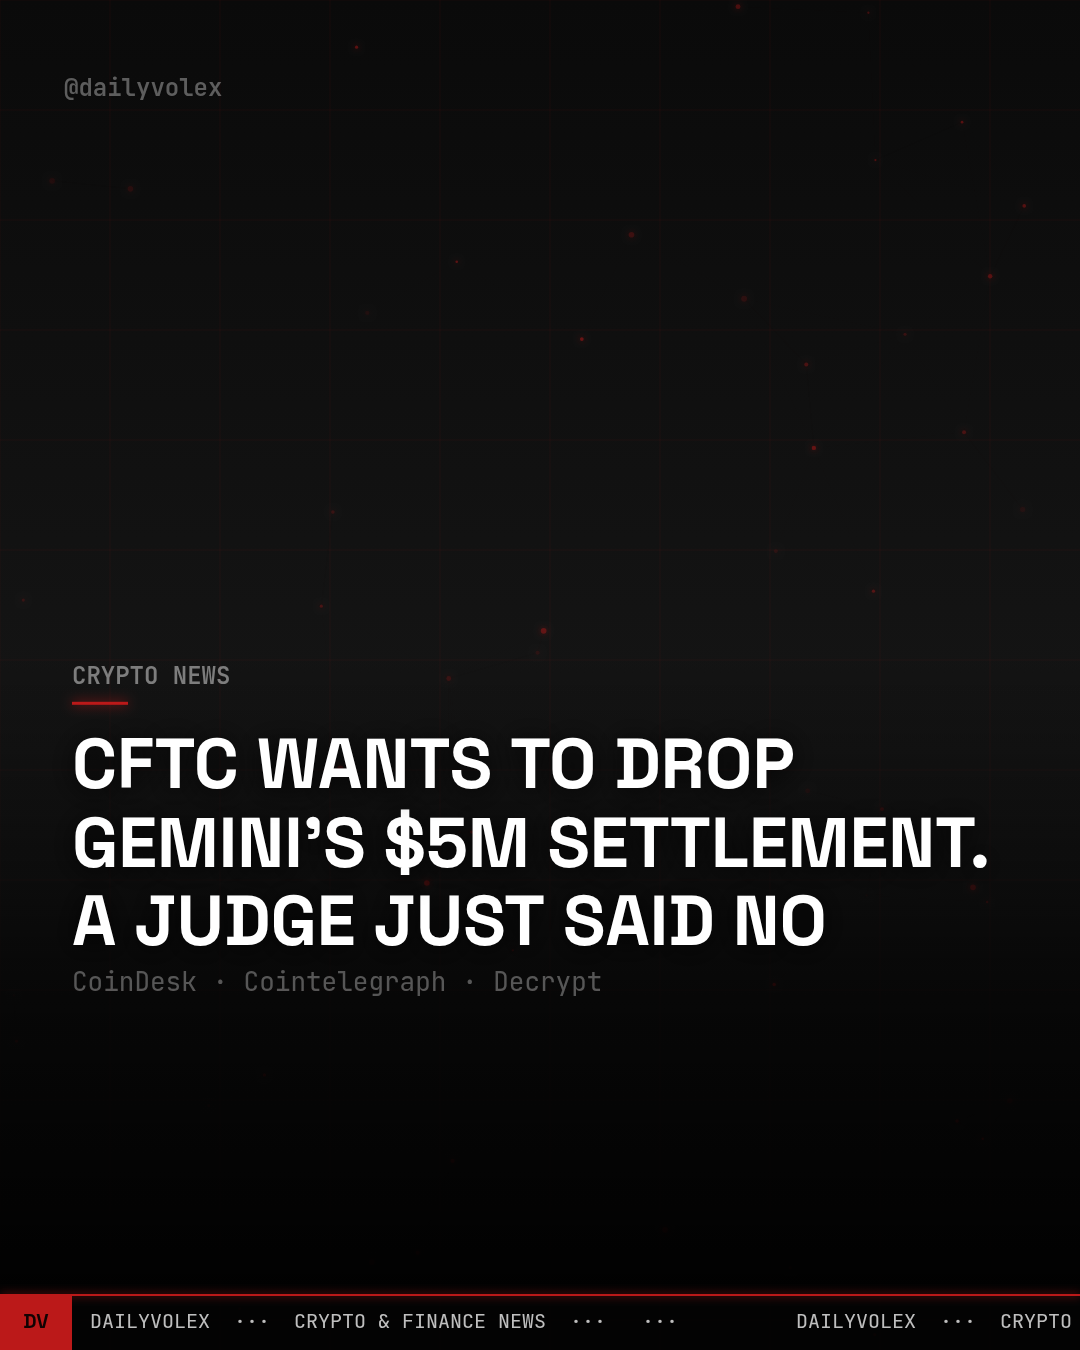
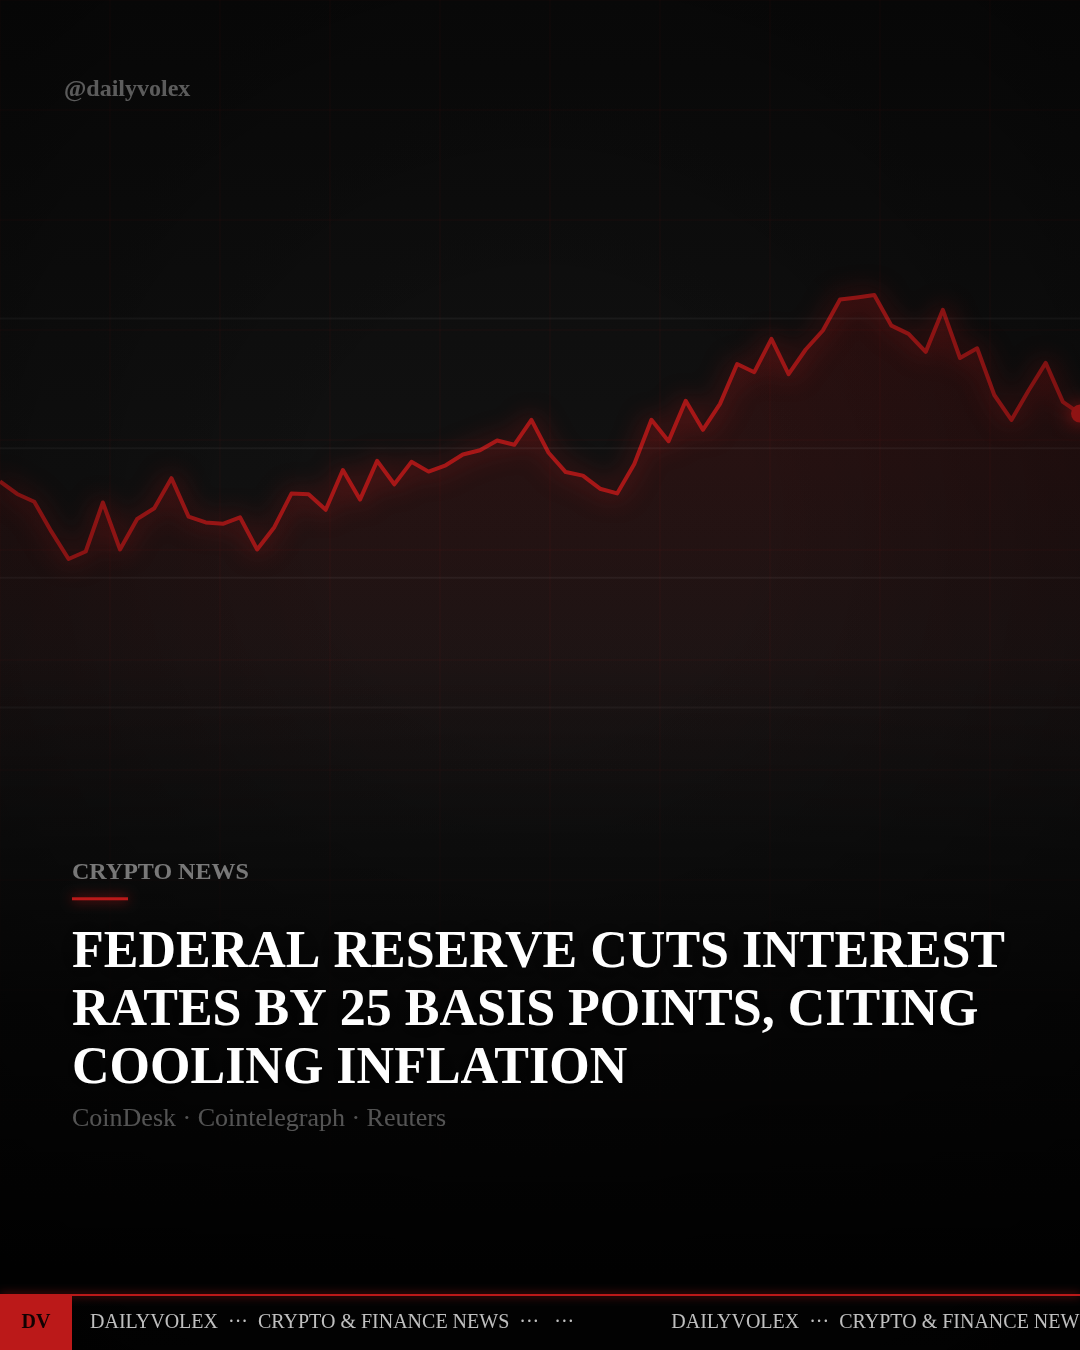
Put a market chart behind the text, so a post is not a black card
A dark card with a headline on it reads as empty rather than as designed, and
that is most of what these posts were. There is now a generated market chart
behind the text: a seeded random walk with an area fill, a glow and a terminal
style marker on the last point, derived from the headline so every story gets
its own chart and the same story always looks the same.

Generated rather than photographed on purpose — no licence to worry about, no
network call that can fail at 08:00, and no risk of a stock image implying
something the story does not say. It is dimmed behind text-heavy layouts and
bold behind a single headline, so it never competes with what it sits under.

Available in the app too, as a Style toggle, and saved with the rest of the
look. Story cards sit back at their normal position now that the frame is
full, rather than being lifted to disguise the emptiness.

Also fixed: the test fixtures carried the dates they were written with, so
once they aged past the 24-hour window every fixture run quietly produced an
empty shortlist — CI included, which would have started failing the day after
the fixtures were made. They are now re-stamped relative to now, keeping their
order and spacing.

Verified: 43 logic, 11 token and 25 workflow tests pass; the carousel renders
with the chart behind both the cover and the story cards.

Claude-Session: https://claude.ai/code/session_01791Hmr7gsyZzjWSHaH6syA

diff --git a/index.html b/index.html
@@ -785,6 +785,12 @@ body.headless main{padding:0!important}
   </div>
 
   <div class="toggle-row">
+    <span class="toggle-label">Market chart backdrop
+      <span class="toggle-sub">A generated chart behind the text, when there is no video</span></span>
+    <label class="sw"><input type="checkbox" id="backdropToggle"><span class="sw-track"></span></label>
+  </div>
+
+  <div class="toggle-row">
     <span class="toggle-label">Safe area
       <span class="toggle-sub">Show what Instagram's UI covers</span></span>
     <label class="sw"><input type="checkbox" id="guidesToggle"><span class="sw-track"></span></label>
@@ -995,6 +1001,7 @@ const S = {
   recordDuration: 8,
   tickerX: 0,
   tickerFreeze: false,   // still exports hold the ticker at its start
+  backdrop: 'particles', // or 'chart' — a generated market chart behind the text
   videoLoaded: false,
   videoLook: 'cinematic',
   letterbox: false,
@@ -1255,6 +1262,112 @@ function applyLookOverlays(theme, look) {
   }
 }
 
+/* ═══════════════════════════════════════════════
+   MARKET BACKDROP
+   A plain dark card with a headline on it reads as empty rather than as
+   designed. This draws a market chart behind the text instead — generated,
+   not photographed, so there is no licence to worry about and no risk of a
+   stock image implying something the story does not say.
+
+   The shape is derived from the headline, so each story gets its own chart and
+   the same story always looks the same.
+   ═══════════════════════════════════════════════ */
+function seedFrom(str) {
+  let h = 2166136261;
+  for (let i = 0; i < String(str).length; i++) {
+    h ^= String(str).charCodeAt(i);
+    h = Math.imul(h, 16777619);
+  }
+  return h >>> 0;
+}
+
+function seededRandom(seed) {
+  let a = seed || 1;
+  return () => {
+    a |= 0; a = (a + 0x6D2B79F5) | 0;
+    let t = Math.imul(a ^ (a >>> 15), 1 | a);
+    t = (t + Math.imul(t ^ (t >>> 7), 61 | t)) ^ t;
+    return ((t ^ (t >>> 14)) >>> 0) / 4294967296;
+  };
+}
+
+function drawMarketBackdrop(theme, seedText) {
+  const W = cv.width, H = cv.height;
+  const rnd = seededRandom(seedFrom(seedText || 'dailyvolex'));
+
+  // Layouts that fill the frame with text need the chart to stay well back;
+  // a single headline can carry a bolder one behind it.
+  const busy = S.layout === 'stories' || S.layout === 'facts';
+  const strength = busy ? 0.45 : 1;
+
+  // A random walk with a mild drift, so it reads as a real price series
+  // rather than as noise.
+  const N = 64;
+  const drift = (rnd() - 0.45) * 0.9;
+  const pts = [];
+  let v = 0.5;
+  for (let i = 0; i < N; i++) {
+    v += (rnd() - 0.5) * 0.16 + drift / N;
+    v = Math.max(0.08, Math.min(0.92, v));
+    pts.push(v);
+  }
+
+  // Occupy the upper part of the frame, above where the headline sits.
+  const top = H * 0.14, bottom = H * 0.62;
+  const x = i => (i / (N - 1)) * W;
+  const y = i => bottom - pts[i] * (bottom - top);
+
+  // Area fill under the line.
+  const fill = ctx.createLinearGradient(0, top, 0, bottom);
+  fill.addColorStop(0, `rgba(${theme.pr},${0.22 * strength})`);
+  fill.addColorStop(1, `rgba(${theme.pr},0)`);
+  ctx.beginPath();
+  ctx.moveTo(0, bottom);
+  for (let i = 0; i < N; i++) ctx.lineTo(x(i), y(i));
+  ctx.lineTo(W, bottom);
+  ctx.closePath();
+  ctx.fillStyle = fill;
+  ctx.fill();
+
+  // The line itself, glowing in the theme colour.
+  ctx.save();
+  ctx.beginPath();
+  ctx.moveTo(x(0), y(0));
+  for (let i = 1; i < N; i++) ctx.lineTo(x(i), y(i));
+  ctx.strokeStyle = theme.p;
+  ctx.lineWidth = 4;
+  ctx.lineJoin = 'round';
+  ctx.shadowColor = theme.p;
+  ctx.shadowBlur = 26;
+  ctx.globalAlpha = 0.85 * strength;
+  ctx.stroke();
+  ctx.restore();
+
+  // A marker on the last point, the way a terminal would show the live price.
+  ctx.save();
+  ctx.fillStyle = theme.p;
+  ctx.shadowColor = theme.p; ctx.shadowBlur = 18;
+  ctx.globalAlpha = strength;
+  ctx.beginPath(); ctx.arc(x(N-1), y(N-1), 9, 0, Math.PI*2); ctx.fill();
+  ctx.restore();
+
+  // Faint horizontal levels, like a chart's gridlines.
+  ctx.save();
+  ctx.strokeStyle = 'rgba(255,255,255,.05)';
+  ctx.lineWidth = 2;
+  for (let i = 1; i < 5; i++) {
+    const gy = top + ((bottom - top) / 5) * i;
+    ctx.beginPath(); ctx.moveTo(0, gy); ctx.lineTo(W, gy); ctx.stroke();
+  }
+  ctx.restore();
+
+  // Vignette, so the chart sits behind the text rather than competing with it.
+  const vig = ctx.createRadialGradient(W/2, H*0.38, H*0.15, W/2, H*0.45, H*0.75);
+  vig.addColorStop(0, 'rgba(0,0,0,0)');
+  vig.addColorStop(1, 'rgba(0,0,0,.55)');
+  ctx.fillStyle = vig; ctx.fillRect(0, 0, W, H);
+}
+
 function drawBG(theme) {
   if (S.videoLoaded) {
     const W=cv.width, H=cv.height;
@@ -1292,6 +1405,14 @@ function drawBG(theme) {
     const gs=110;
     for(let x=0;x<cv.width;x+=gs){ctx.beginPath();ctx.moveTo(x,0);ctx.lineTo(x,cv.height);ctx.stroke();}
     for(let y=0;y<cv.height;y+=gs){ctx.beginPath();ctx.moveTo(0,y);ctx.lineTo(cv.width,y);ctx.stroke();}
+    if (S.backdrop === 'chart') {
+      drawMarketBackdrop(theme,
+        S.layout === 'stories' ? (S.stories.items[0] || S.stories.label)
+        : S.layout === 'facts' ? (S.facts.title)
+        : S.layout === 'quote' ? (S.quote.stat + S.quote.label)
+        : (S.breaking.headline || S.brand.handle));
+      return;
+    }
     updateParticles();
     for (const p of S.particles) {
       ctx.save();
@@ -3304,7 +3425,7 @@ function saveState() {
     brand:{name:S.brand.name,handle:S.brand.handle},
     breaking:S.breaking, stories:S.stories, facts:S.facts, quote:S.quote,
     customColor:S.customColor, recordDuration:S.recordDuration,
-    showClock:S.showClock, sound:S.sound, pos:{x:S.pos.x,y:S.pos.y}, avSyncMs:S.avSyncMs,
+    showClock:S.showClock, backdrop:S.backdrop, sound:S.sound, pos:{x:S.pos.x,y:S.pos.y}, avSyncMs:S.avSyncMs,
     tickerFeeds:S.tickerFeeds,
   };
   try { localStorage.setItem('dvx_v2',JSON.stringify(snap)); showToast('Session saved'); }
@@ -3329,6 +3450,7 @@ function loadState() {
     if(snap.recordDuration) S.recordDuration=snap.recordDuration;
     S.showClock=!!snap.showClock;
     if(typeof snap.sound==='boolean') S.sound=snap.sound;
+    if(snap.backdrop==='chart'||snap.backdrop==='particles') S.backdrop=snap.backdrop;
     S.avSyncMs = (typeof snap.avSyncMs==='number') ? snap.avSyncMs : null;
     if(snap.pos) { S.pos.x=+snap.pos.x||0; S.pos.y=+snap.pos.y||0; }
     if(Array.isArray(snap.tickerFeeds)) {
@@ -3338,6 +3460,7 @@ function loadState() {
       });
     }
     const sd=document.getElementById('soundToggle'); if(sd) sd.checked=S.sound;
+    const bd=document.getElementById('backdropToggle'); if(bd) bd.checked=S.backdrop==='chart';
     applyPreviewVolume();
     const ck=document.getElementById('clockToggle'); if(ck) ck.checked=S.showClock;
     setLayout(snap.layout||'breaking');
@@ -3457,6 +3580,14 @@ function initEvents() {
   document.getElementById('brandName').addEventListener('input', e=>{ S.brand.name=e.target.value; });
   document.getElementById('brandHandle').addEventListener('input', e=>{ S.brand.handle=e.target.value; });
 
+  const bdToggle=document.getElementById('backdropToggle');
+  if(bdToggle) bdToggle.addEventListener('change', e=>{
+    S.backdrop = e.target.checked ? 'chart' : 'particles';
+    showToast(e.target.checked
+      ? 'Market chart backdrop on'
+      : 'Back to the particle background');
+  });
+
   // Clock (off by default — the graphic carries the handle instead)
   const clkToggle=document.getElementById('clockToggle');
   if(clkToggle) clkToggle.addEventListener('change', e=>{ S.showClock=e.target.checked; });
@@ -3537,6 +3668,7 @@ function applyUrlStory() {
   set('ratio',  v => { if (['9:16','4:5','1:1'].includes(v)) S.ratio = v; });
   set('layout', v => { if (['breaking','stories','facts','quote'].includes(v)) S.layout = v; });
   set('handle', v => S.brand.handle = v.slice(0,40));
+  set('bg', v => { if (['particles','chart'].includes(v)) S.backdrop = v; });
 
   set('category', v => S.breaking.category = v.slice(0,40).toUpperCase());
   set('headline', v => S.breaking.headline = v.slice(0,160).toUpperCase());
